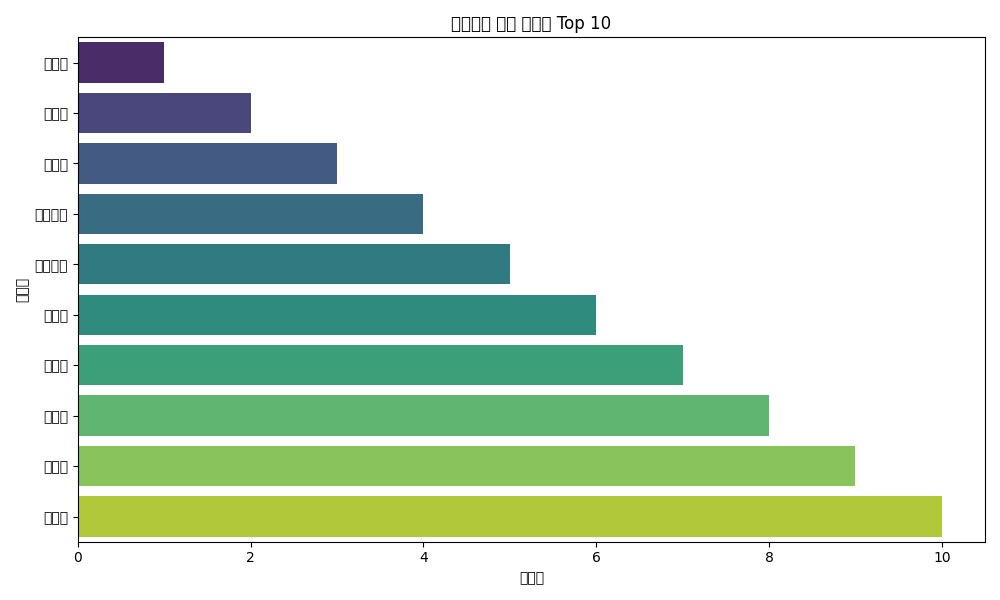
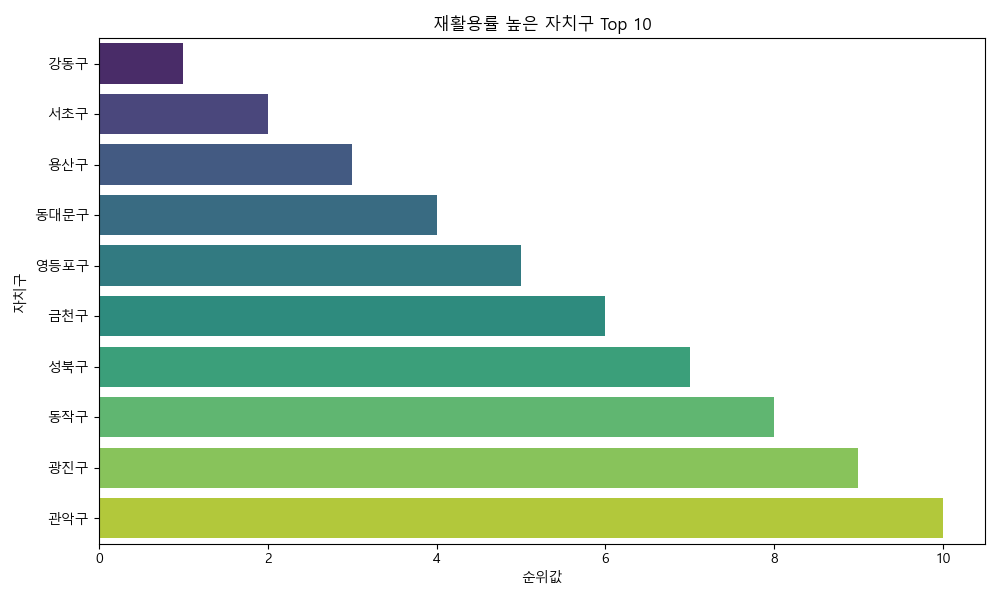
한글 폰트 추가

Changed region(s): [[0.0, 0.03, 0.961, 0.99]]

diff --git a/visualization/environment_plotter.py b/visualization/environment_plotter.py
@@ -2,6 +2,15 @@ import os
 import pandas as pd
 import matplotlib.pyplot as plt
 import seaborn as sns
+import matplotlib
+
+# 🔠 한글 폰트 설정 (Windows: 맑은 고딕 / macOS: AppleGothic)
+matplotlib.rcParams['font.family'] = 'Malgun Gothic'  # Windows
+# matplotlib.rcParams['font.family'] = 'AppleGothic'  # macOS
+
+# 깨진 한글 대체 문자 제거 (마이너스 깨짐 방지용)
+matplotlib.rcParams['axes.unicode_minus'] = False
+
 
 class EnvironmentPlotter:
     def __init__(self, df: pd.DataFrame, result_dir='./result'):
